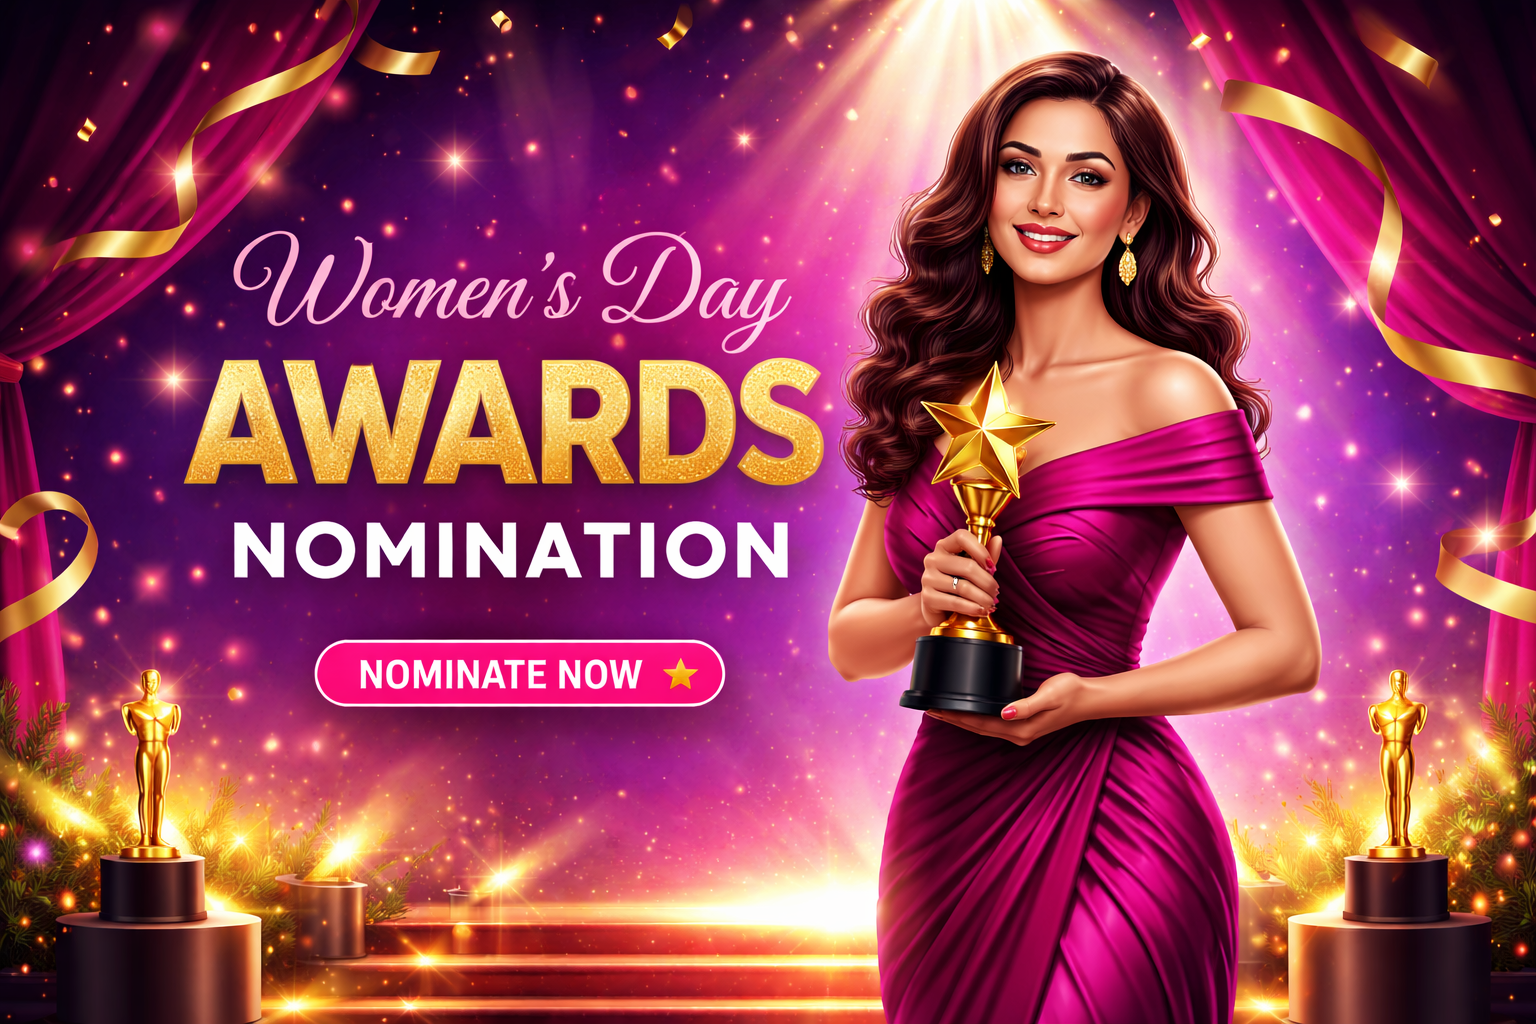
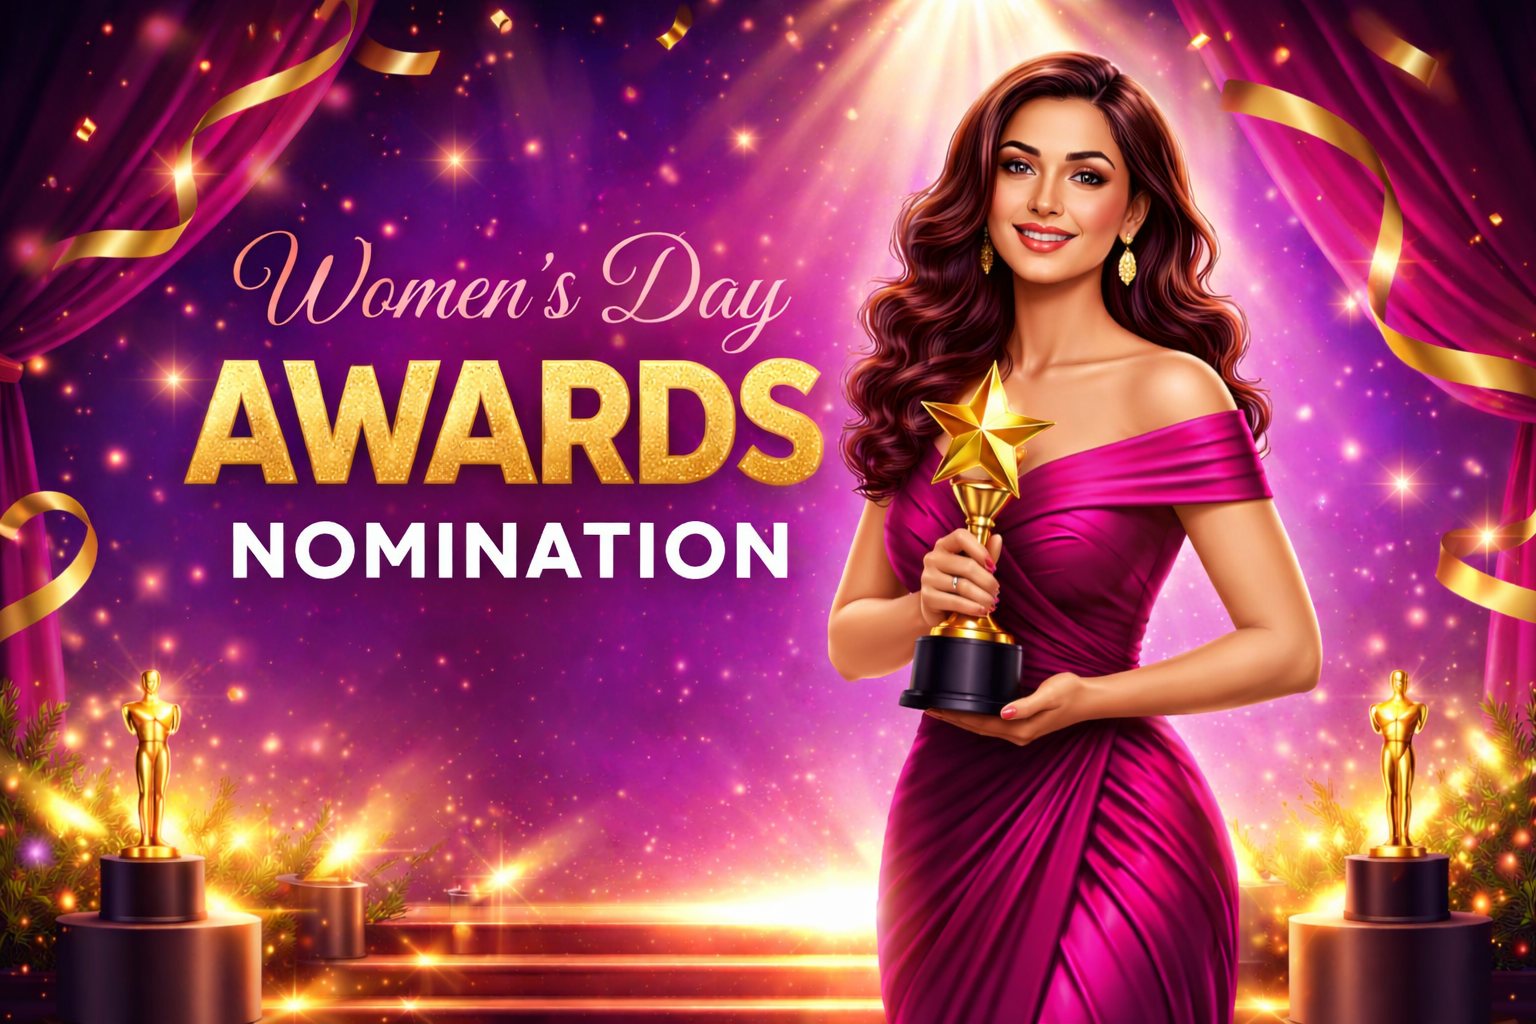
Remove total file size limit, enforce 5MB per upload, update UI message

diff --git a/app/register/page.tsx b/app/register/page.tsx
@@ -39,7 +39,7 @@ const awardCategories = [
   "Woman Entrepreneur of the Year(All Industries)",
   "Woman Founder – DeepTech/IP-led Innovation",
   "Grassroots Woman Social Changemaker",
-  "Star ( Tamil Cinema / Television )",
+  "Star – Indian Cinema, Television",
   "Excellence in Music (Carnatic / Film)",
   "Excellence in Dance & Performing Arts(Bharatanatyam / Folk / Theatre)",
   "SIMATS Life Time Achievement Award",
@@ -61,40 +61,105 @@ const sectorOptions = [
   "Other",
 ];
 
-// Tamil Nadu Districts
-const tamilNaduDistricts = [
+// Pan-India Cities/Districts (sample major cities, can be expanded as needed)
+const panIndiaCities = [
+  "Mumbai",
+  "Delhi",
+  "Bengaluru",
+  "Hyderabad",
+  "Ahmedabad",
   "Chennai",
-  "Coimbatore",
+  "Kolkata",
+  "Pune",
+  "Jaipur",
+  "Lucknow",
+  "Kanpur",
+  "Nagpur",
+  "Indore",
+  "Bhopal",
+  "Patna",
+  "Ludhiana",
+  "Agra",
+  "Nashik",
+  "Vadodara",
+  "Faridabad",
+  "Meerut",
+  "Rajkot",
+  "Varanasi",
+  "Srinagar",
+  "Aurangabad",
+  "Dhanbad",
+  "Amritsar",
+  "Allahabad",
+  "Ranchi",
+  "Howrah",
+  "Gwalior",
+  "Jabalpur",
+  "Vijayawada",
+  "Jodhpur",
   "Madurai",
+  "Raipur",
+  "Kota",
+  "Guwahati",
+  "Chandigarh",
+  "Solapur",
+  "Hubli–Dharwad",
+  "Mysore",
   "Tiruchirappalli",
-  "Salem",
-  "Tirunelveli",
+  "Bareilly",
+  "Aligarh",
   "Tiruppur",
-  "Vellore",
+  "Moradabad",
+  "Jalandhar",
+  "Bhubaneswar",
+  "Salem",
+  "Warangal",
+  "Guntur",
+  "Bhiwandi",
+  "Saharanpur",
+  "Gorakhpur",
+  "Bikaner",
+  "Amravati",
+  "Noida",
+  "Jamshedpur",
+  "Bhilai",
+  "Cuttack",
+  "Firozabad",
+  "Kochi",
+  "Nellore",
+  "Bhavnagar",
+  "Dehradun",
+  "Durgapur",
+  "Asansol",
+  "Rourkela",
+  "Nanded",
+  "Kolhapur",
+  "Ajmer",
+  "Akola",
+  "Gulbarga",
+  "Jamnagar",
+  "Ujjain",
+  "Loni",
+  "Siliguri",
+  "Jhansi",
+  "Ulhasnagar",
+  "Jammu",
+  "Sangli-Miraj & Kupwad",
+  "Mangalore",
   "Erode",
-  "Thoothukkudi",
-  "Dindigul",
-  "Thanjavur",
-  "Ranipet",
-  "Sivaganga",
-  "Karur",
-  "Udhagamandalam (Ooty)",
-  "Hosur",
-  "Nagercoil",
-  "Kanchipuram",
-  "Kumarapalayam",
-  "Karaikkudi",
-  "Neyveli",
-  "Cuddalore",
-  "Kumbakonam",
-  "Tiruvannamalai",
-  "Pollachi",
-  "Rajapalayam",
-  "Gudiyatham",
-  "Pudukkottai",
-  "Vaniyambadi",
-  "Ambur",
-  "Nagapattinam",
+  "Belgaum",
+  "Kurnool",
+  "Kozhikode",
+  "Udaipur",
+  "Maheshtala",
+  "Davanagere",
+  "Kamarhati",
+  "South Dumdum",
+  "Tirunelveli",
+  "Malegaon",
+  "Gaya",
+  "Tirupati",
+  "Dharwad",
   "Other",
 ];
 
@@ -512,11 +577,18 @@ function RegistrationForm() {
       validationErrors.push("Please enter a valid mobile number");
     }
 
-    // File size and type validation (max 10MB total, 5MB per file)
+    // File size and type validation (5MB per file)
     const allowedTypes = ['application/pdf', 'image/jpeg', 'image/jpg', 'image/png'];
     const allowedExtensions = ['.pdf', '.jpg', '.jpeg', '.png'];
     let totalFileSize = 0;
+
+    let atLeastOneAttachment = false;
     attachments.forEach((attachment, index) => {
+      // Require at least one of file or link for each attachment
+      if (attachment.file || (attachment.link && attachment.link.trim() !== "")) {
+        atLeastOneAttachment = true;
+      }
+      // If file is present, validate type and size
       if (attachment.file) {
         const fileExtension = '.' + attachment.file.name.split('.').pop()?.toLowerCase();
         if (!allowedTypes.includes(attachment.file.type) && !allowedExtensions.includes(fileExtension)) {
@@ -525,12 +597,12 @@ function RegistrationForm() {
         if (attachment.file.size > 5 * 1024 * 1024) {
           validationErrors.push(`Attachment ${index + 1} exceeds 5MB limit`);
         }
-        totalFileSize += attachment.file.size;
       }
     });
-    if (totalFileSize > 10 * 1024 * 1024) {
-      validationErrors.push("Total file size exceeds 10MB limit");
+    if (!atLeastOneAttachment) {
+      validationErrors.push("At least one supporting document (file upload or link) is required.");
     }
+
 
     return validationErrors;
   }, [formData, wordCounts, wordLimits, attachments]);
@@ -642,10 +714,15 @@ function RegistrationForm() {
   }
 
   return (
-    <section className="py-12 sm:py-16 bg-gradient-to-br from-pink-50 to-purple-50">
+    <section className="pt-4 sm:pt-6 pb-12 sm:pb-16 bg-gradient-to-br from-pink-50 to-purple-50">
       <div className="max-w-5xl mx-auto px-4 sm:px-6 lg:px-8">
         {/* Form Header */}
         <div className="text-center mb-10">
+          <img 
+            src="/logo.png" 
+            alt="Logo" 
+            className="mx-auto mb-6 w-32 sm:w-40 md:w-48 lg:w-56 h-auto object-contain drop-shadow-lg"
+          />
           <div className="inline-flex items-center gap-2 bg-gradient-to-r from-[#C41E7F] to-[#D4AF37] text-white px-6 py-2 rounded-full text-sm font-medium mb-4">
             <Star className="w-4 h-4" />
             SIMATS EmpowerHER Awards 2026
@@ -675,7 +752,7 @@ function RegistrationForm() {
         )}
 
         <form onSubmit={handleSubmit} className="space-y-8">
-          {/* Section 0: Choose Category */}
+          {/* Section 1: Choose Category */}
           <div className="bg-white rounded-xl shadow-lg overflow-hidden border border-pink-100">
             <SectionHeader number={0} title="Choose Category" bgColor="bg-[#C41E7F]" />
             <div className="p-6">
@@ -694,7 +771,7 @@ function RegistrationForm() {
             </div>
           </div>
 
-          {/* Section 1: Participant Information */}
+          {/* Section 2: Participant Information */}
           <div className="bg-white rounded-xl shadow-lg overflow-hidden border border-pink-100">
             <SectionHeader number={1} title="Participant Information" bgColor="bg-[#D4AF37]" />
             <div className="p-6 space-y-6">
@@ -766,7 +843,7 @@ function RegistrationForm() {
                   />
                 </div>
                 <div>
-                  <FieldLabel label="City & District (Tamil Nadu)" required />
+                  <FieldLabel label="City & District (Pan-India)" required />
                   <select
                     name="cityDistrict"
                     value={formData.cityDistrict}
@@ -774,8 +851,8 @@ function RegistrationForm() {
                     className="w-full px-4 py-3 border border-pink-200 rounded-xl focus:ring-2 focus:ring-[#C41E7F] focus:border-transparent bg-white"
                   >
                     <option value="">Select city/district</option>
-                    {tamilNaduDistricts.map((district) => (
-                      <option key={district} value={district}>{district}</option>
+                    {panIndiaCities.map((city) => (
+                      <option key={city} value={city}>{city}</option>
                     ))}
                   </select>
                 </div>
@@ -904,7 +981,7 @@ function RegistrationForm() {
             </div>
           </div>
 
-          {/* Section 2: Case Study */}
+          {/* Section 3: Case Study */}
           <div className="bg-white rounded-xl shadow-lg overflow-hidden border border-pink-100">
             <SectionHeader number={2} title="Case Study Section" bgColor="bg-[#6B2D5B]" />
             <div className="p-6 space-y-6">
@@ -1089,14 +1166,14 @@ function RegistrationForm() {
             </div>
           </div>
 
-          {/* Section 3: Supporting Documents */}
+          {/* Section 4: Supporting Documents */}
           <div className="bg-white rounded-xl shadow-lg overflow-hidden border border-pink-100">
             <SectionHeader number={3} title="Supporting Documents" bgColor="bg-[#C41E7F]" />
             <div className="p-6 space-y-4">
               <div className="bg-amber-50 border border-amber-200 rounded-lg p-4 mb-4">
                 <p className="text-amber-800 text-sm font-medium flex items-center gap-2">
                   <AlertCircle className="w-4 h-4" />
-                  Total file size not more than 10MB. Supported formats: JPEG, JPG, PNG, PDF
+                  Supported formats: JPEG, JPG, PNG, PDF. Maximum size per file: 5MB.
                 </p>
                 <p className="text-amber-700 text-xs mt-1">
                   Please refer to the sample guidelines for each category and upload the documents accordingly, ensuring files are appropriately named.
@@ -1115,7 +1192,7 @@ function RegistrationForm() {
             </div>
           </div>
 
-          {/* Section 4: Declaration */}
+          {/* Section 5: Declaration */}
           <div className="bg-white rounded-xl shadow-lg overflow-hidden border border-pink-100">
             <SectionHeader number={4} title="Declaration" bgColor="bg-[#2D1B4E]" />
             <div className="p-6 space-y-4">

diff --git a/app/categories/page.tsx b/app/categories/page.tsx
@@ -23,7 +23,6 @@ const navItems = [
 const categoryGroups = [
   {
     title: "Professionals & Leaders",
-    subtitle: "6 Awards",
     color: "navy",
     categories: [
       {
@@ -54,7 +53,6 @@ const categoryGroups = [
   },
   {
     title: "Entrepreneurs",
-    subtitle: "6 Awards",
     color: "gold",
     categories: [
       {
@@ -73,12 +71,11 @@ const categoryGroups = [
   },
   {
     title: "Arts, Culture & Entertainment",
-    subtitle: "3 Awards",
     color: "red",
     categories: [
       {
-        title: "Star – Tamil Cinema, Television",
-        description: "Recognising exceptional talent and contribution to Tamil cinema and television industry.",
+        title: "Star – Indian Cinema, Television",
+        description: "Recognising exceptional talent and contribution to Indian cinema and television industry.",
       },
       {
         title: "Excellence in Music (Carnatic / Film)",
@@ -357,9 +354,14 @@ function CategoryGroup({ group }: { group: typeof categoryGroups[0] }) {
 // Categories Content Component
 function CategoriesContent() {
   return (
-    <section className="py-12 sm:py-16 lg:py-20 bg-gradient-to-b from-white to-pink-50/50">
+    <section className="pt-4 sm:pt-6 lg:pt-8 pb-12 sm:pb-16 lg:pb-20 bg-gradient-to-b from-white to-pink-50/50">
       <div className="max-w-7xl mx-auto px-4 sm:px-6 lg:px-8">
         <div className="text-center mb-16">
+          <img 
+            src="/logo.png" 
+            alt="Logo" 
+            className="mx-auto mb-6 w-32 sm:w-40 md:w-48 lg:w-56 h-auto object-contain drop-shadow-lg"
+          />
           <div className="w-24 h-1 bg-gradient-to-r from-[#C41E7F] to-[#D4AF37] mx-auto mb-8 rounded-full"></div>
           <h2 className="font-serif text-2xl sm:text-3xl text-[#C41E7F] mb-4 font-bold">
             Award Categories
@@ -367,7 +369,6 @@ function CategoriesContent() {
           <p className="text-gray-600 max-w-3xl mx-auto">
             The Women&apos;s Day Achievement Awards 2026 celebrates excellence across multiple categories, 
             recognizing outstanding women who are making a difference in their respective fields. 
-            
           </p>
         </div>
 

diff --git a/app/page.tsx b/app/page.tsx
@@ -187,12 +187,22 @@ function HeroSection() {
   return (
     <section className="relative overflow-hidden">
       {/* Banner Image */}
-      <div className="w-full max-h-[590px] overflow-hidden">
+      <div className="w-full max-h-[590px] overflow-hidden relative">
         <img 
           src="/banner.png" 
           alt="Women's Day Awards Nomination" 
           className="w-full h-auto object-cover"
         />
+        {/* Overlay clickable area for 'Nominate Now' */}
+        <a
+          href="/register"
+          className="absolute left-1/2 top-1/2 -translate-x-1/2 -translate-y-1/2 block"
+          style={{ width: '220px', height: '60px', zIndex: 10 }}
+          aria-label="Nominate Now"
+        >
+          {/* Optionally, add a visually hidden span for accessibility */}
+          <span className="sr-only">Nominate Now</span>
+        </a>
       </div>
     </section>
   );
@@ -356,6 +366,9 @@ function HowToNominateSection() {
             
             {/* Important notice box */}
             <div className="border border-[#D4AF37] p-4 mt-8 rounded-lg bg-white/5">
+            <h6 className="font-serif text-base sm:text-lg text-white mb-2 font-bold">
+              Terms & Conditions
+            </h6>
               <p className="text-white/90 text-sm">
                 It is essential that both nominee and nominator are aware of the terms & conditions of the 
                 nomination and that both parties are aware that the submission has been made.
